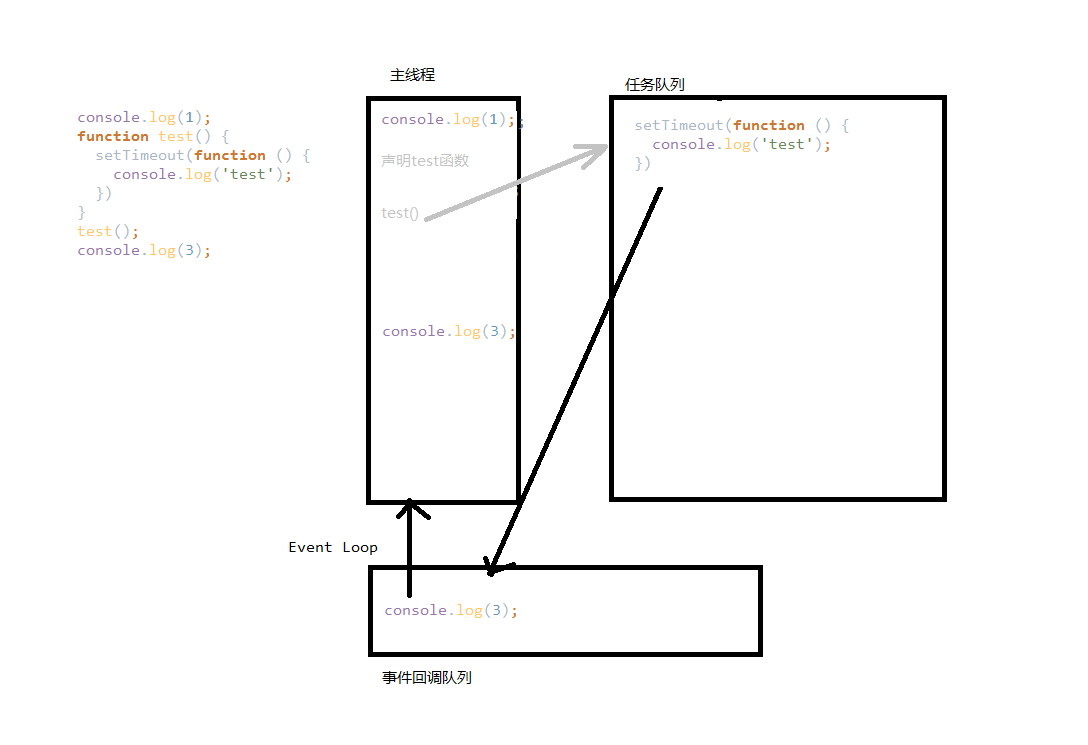
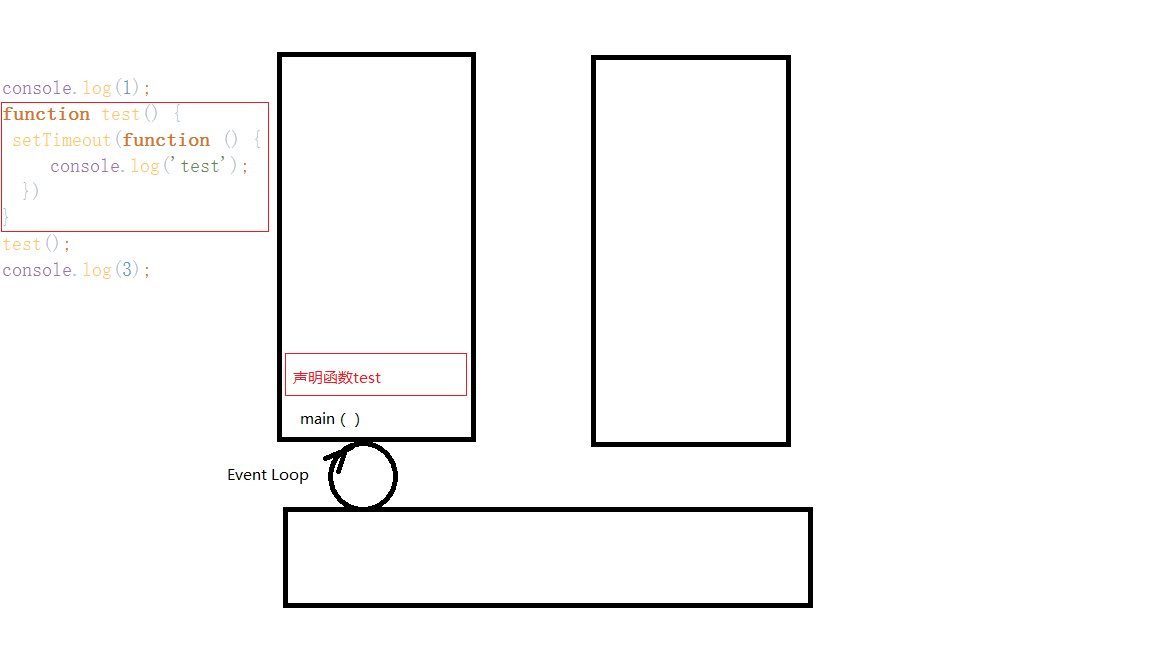
change

diff --git a/README2.MD b/README2.MD
@@ -23,3 +23,27 @@
    ```
    以上代码的执行如下图所示：
    ![image](./1.png)
+   
+   首先是在执行环境栈中压入执行上下文的main函数，再次是按照顺序执行将console.log(1);压入到执行环境栈中，于是执行环境栈中就有了一个task——console.log(1)，于是并开始执行该task，就输出了1，输出后代码开始继续往执行，得到下图所示环境：
+
+   ![image](./2.png)
+   
+   在执行环境栈中会加入一个什么test函数的task，于是会声明一个test函数，代码继续往下执行，图示如下：
+   
+   ![image](./4.png)
+   在执行环境栈中会加入一个test()的task,于是会开始执行test(),在执行的时候执行机制如图：
+   
+   ![image](./5.png)
+   test()在执行的时候会执行setTimeout,在执行setTimeout的时候就会创建一个任务队列的task，创建完该task后执行环境栈继续执行，如下图：
+   
+   ![image](./6.png)
+   
+  在执行环境栈中会创建一个console.log(3)的task，并执行它，任务队列当中setTimeout创建的task处于等待状态，于是控制台会输出3，那么此时控制台的输出结果当中已经有了**1、3**两个数字，此时执行环境栈中的task已经都执行完成了，执行环境栈出现控制，那么这个时候就会去看任务队列里面的task是否有需要执行的，这个时候setTimeout创建的task就会被发现，该task的执行函数将会被添加到回调队列里面，因为执行环境栈中没有task，于是改回调函数将会被拿到执行环境栈中去执行，如下图所示：
+  
+  ![image](./7.png)
+  
+  这时候执行环境栈中的task会开始执行，于是会输出‘test’，输出完成后，执行环境栈、任务队列、回调队列都不存在task，于是整个过程执行完成。
+  
+#### 
+   
+   
